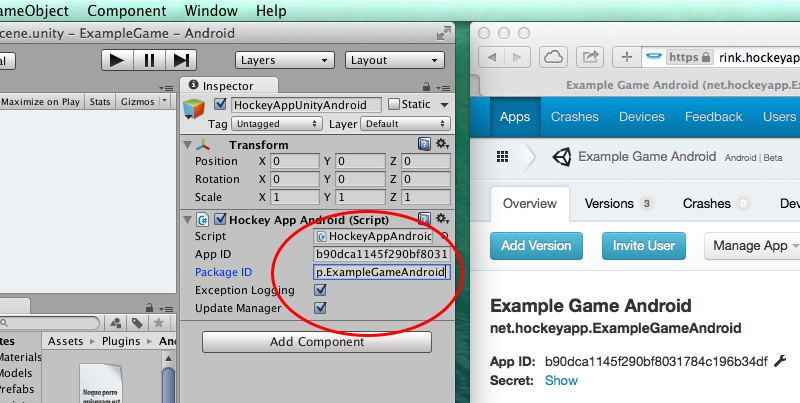
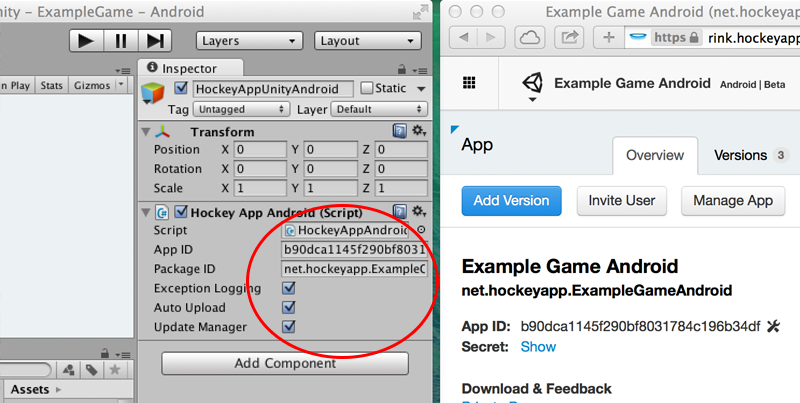
Add auto-send feature to documentation

diff --git a/README.md b/README.md
@@ -28,7 +28,9 @@ Create an empty game object (*GameObject -> Create Empty*) and add the **HockeyA
 
 Select the game object in the **Hierachy** pane and fill in the App ID provided by HockeyApp (Inspector window). You will also have to enter a package identifier: Make sure that **Package ID** equals the package name of your HockeyApp app. 
 
-If you want to get more precise information about exceptions in your Unity scripts you can also check the **Exception Logging** property. If users should be informed about app updates from inside your app, please make sure that **Update Manager** is checked, too.
+If you want to get more precise information about exceptions in your Unity scripts you can also check the **Exception Logging** property. 
+
+The **Auto Upload** option defines if the crash reporting feature should send crash reportings automatically without asking the user. If users should be informed about app updates from inside your app, please make sure that **Update Manager** is checked, too.
 
 ![alt text](Documentation/04_config_script.png  "Configure script")
 
